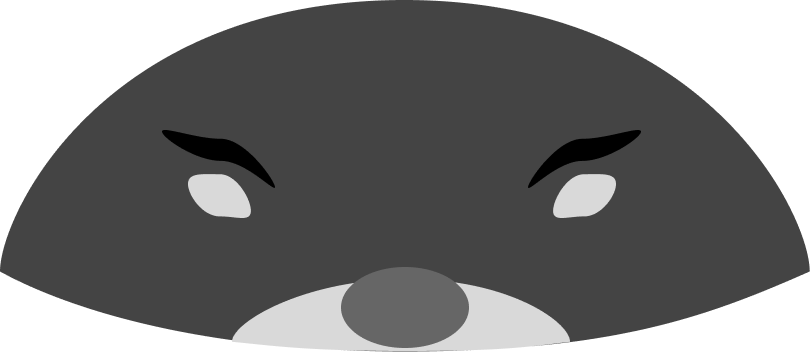
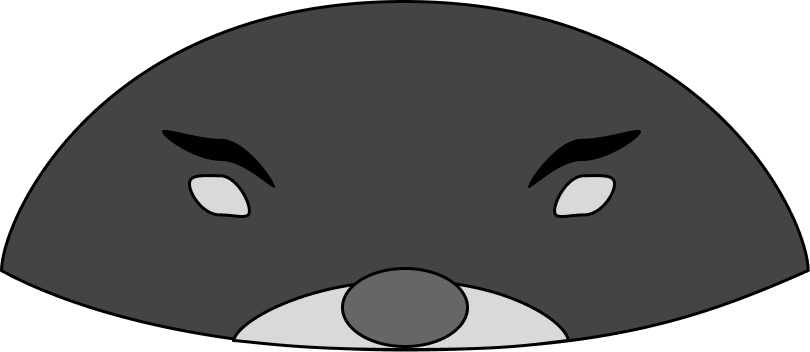
removed the unused shady.png. Touched up the rest of the mole images. Added some comments in the wanderGoldEndgame function to explain its purpose.

diff --git a/gamePage.js b/gamePage.js
@@ -29,7 +29,7 @@ console.log(gridSize);
 let bonks = 0;
 let gameGridArr=[];
 bonkCount.innerHTML = bonks;
-let timeLeft = 10;
+let timeLeft = 30;
 
 // this is used to allow the goldenmole to move around randomly in the postgame
 let wanderXY = [0,0];
@@ -213,10 +213,10 @@ function wanderGoldEndGame() {
     
     let xyProb = [0,0];
 
+    // two probability values for x and y, both somewehre between 1 and 6 (inclusive). if either coordinate of the current location on the mole (wanderXY) is on the edge if will not allow the mole to move further in that direction
+
     for (i=0; i<xyProb.length; i++ ) {
         xyProb[i] = Math.floor(Math.random()*6)+1;
-        console.log(xyProb[i]);
-
         if (wanderXY[i] > 0 && wanderXY[i] < (gridSize-1)) {
             if (xyProb[i] <= 2) {
                 wanderXY[i] -= 1;
@@ -229,7 +229,6 @@ function wanderGoldEndGame() {
             }
         }
     }
-    console.log(wanderXY);
     gameGridArr[wanderXY[0]][wanderXY[1]] = 5;
 }
 
